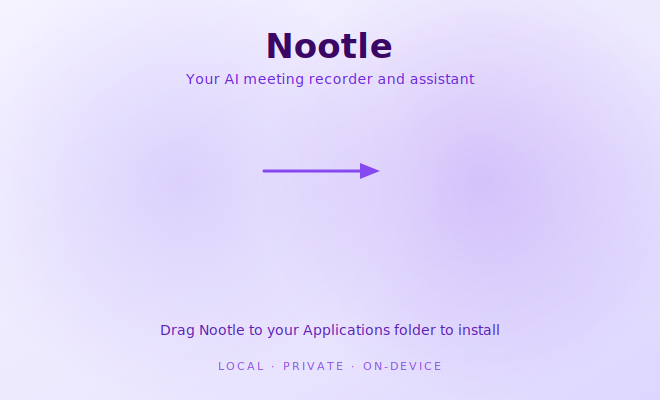
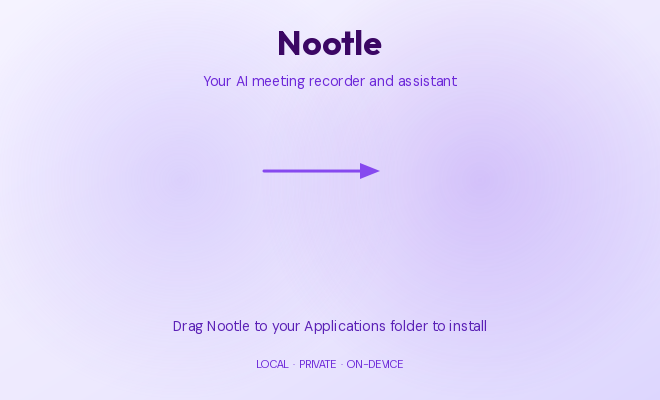
fix(installer): match DMG background typography to Nootle brand
The previous SVG specified -apple-system, which cairosvg can't resolve
on non-macOS build hosts, so the rendered PNG fell back to a generic
sans-serif. Vendor the actual brand fonts (Outfit + DM Sans, both OFL)
under src-tauri/dmg/fonts, strip text from the SVG, and have
build-icons.py composite the wordmark and copy in Pillow using the
TTFs directly. The DMG background now uses the same Outfit display
face and DM Sans body face as the marketing site regardless of where
the script runs.

diff --git a/scripts/build-icons.py b/scripts/build-icons.py
@@ -27,7 +27,7 @@ import tempfile
 from pathlib import Path
 
 import cairosvg
-from PIL import Image
+from PIL import Image, ImageDraw, ImageFont
 
 REPO = Path(__file__).resolve().parent.parent
 SRC_SVG = REPO / "src-tauri/icons/icon.svg"
@@ -36,12 +36,55 @@ PUBLIC_DIR = REPO / "public"
 SITE_PUBLIC_DIR = REPO / "site/public"
 DMG_DIR = REPO / "src-tauri/dmg"
 DMG_BG_SVG = DMG_DIR / "background.svg"
+DMG_FONT_OUTFIT = DMG_DIR / "fonts/Outfit-Variable.ttf"
+DMG_FONT_DM_SANS = DMG_DIR / "fonts/DMSans-Variable.ttf"
 DMG_BG_WIDTH = 660
 DMG_BG_HEIGHT = 400
 
 
 def render(svg_path: Path, out_path: Path, size: int) -> None:
     cairosvg.svg2png(url=str(svg_path), write_to=str(out_path), output_width=size, output_height=size)
+
+
+def render_dmg_background(out_path: Path, scale: int) -> None:
+    """Render the DMG background with text drawn via Pillow so the
+    Outfit/DM Sans typefaces match the rest of the Nootle brand
+    regardless of the host system's installed fonts."""
+    width = DMG_BG_WIDTH * scale
+    height = DMG_BG_HEIGHT * scale
+    cairosvg.svg2png(
+        url=str(DMG_BG_SVG),
+        write_to=str(out_path),
+        output_width=width,
+        output_height=height,
+    )
+    image = Image.open(out_path).convert("RGBA")
+    draw = ImageDraw.Draw(image)
+
+    title = ImageFont.truetype(str(DMG_FONT_OUTFIT), 34 * scale)
+    try:
+        title.set_variation_by_axes([700])
+    except (AttributeError, OSError):
+        pass
+    subtitle = ImageFont.truetype(str(DMG_FONT_DM_SANS), 14 * scale)
+    instruction = ImageFont.truetype(str(DMG_FONT_DM_SANS), 14 * scale)
+    badge = ImageFont.truetype(str(DMG_FONT_DM_SANS), 11 * scale)
+    try:
+        badge.set_variation_by_axes([500])
+    except (AttributeError, OSError):
+        pass
+
+    def centered(text: str, font: ImageFont.FreeTypeFont, y: int, fill: tuple[int, int, int]) -> None:
+        left, top, right, bottom = font.getbbox(text)
+        text_width = right - left
+        draw.text(((width - text_width) // 2 - left, y * scale - top), text, font=font, fill=fill)
+
+    centered("Nootle", title, 30, (59, 7, 100))
+    centered("Your AI meeting recorder and assistant", subtitle, 75, (109, 40, 217))
+    centered("Drag Nootle to your Applications folder to install", instruction, 320, (91, 33, 182))
+    centered("LOCAL  ·  PRIVATE  ·  ON-DEVICE", badge, 360, (109, 40, 217))
+
+    image.save(out_path, format="PNG")
 
 
 def main() -> None:
@@ -107,20 +150,10 @@ def main() -> None:
     shutil.copyfile(SRC_SVG, PUBLIC_DIR / "nootle-icon.svg")
     shutil.copyfile(SRC_SVG, SITE_PUBLIC_DIR / "nootle-icon.svg")
 
-    if DMG_BG_SVG.exists():
+    if DMG_BG_SVG.exists() and DMG_FONT_OUTFIT.exists() and DMG_FONT_DM_SANS.exists():
         DMG_DIR.mkdir(parents=True, exist_ok=True)
-        cairosvg.svg2png(
-            url=str(DMG_BG_SVG),
-            write_to=str(DMG_DIR / "background.png"),
-            output_width=DMG_BG_WIDTH,
-            output_height=DMG_BG_HEIGHT,
-        )
-        cairosvg.svg2png(
-            url=str(DMG_BG_SVG),
-            write_to=str(DMG_DIR / "[email redacted]"),
-            output_width=DMG_BG_WIDTH * 2,
-            output_height=DMG_BG_HEIGHT * 2,
-        )
+        render_dmg_background(DMG_DIR / "background.png", scale=1)
+        render_dmg_background(DMG_DIR / "[email redacted]", scale=2)
 
     print("done")
 